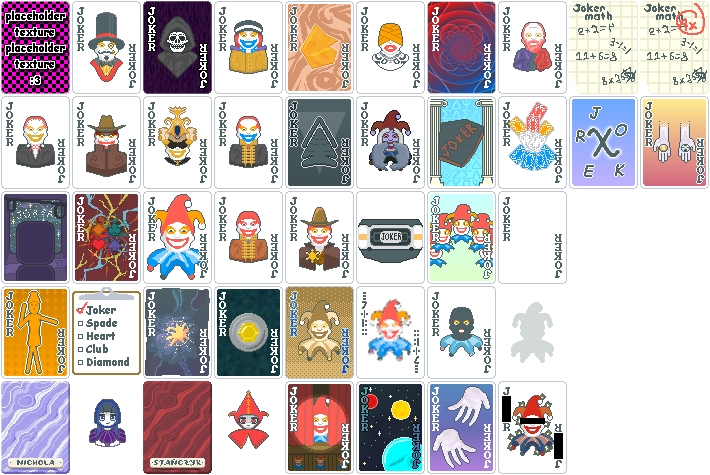
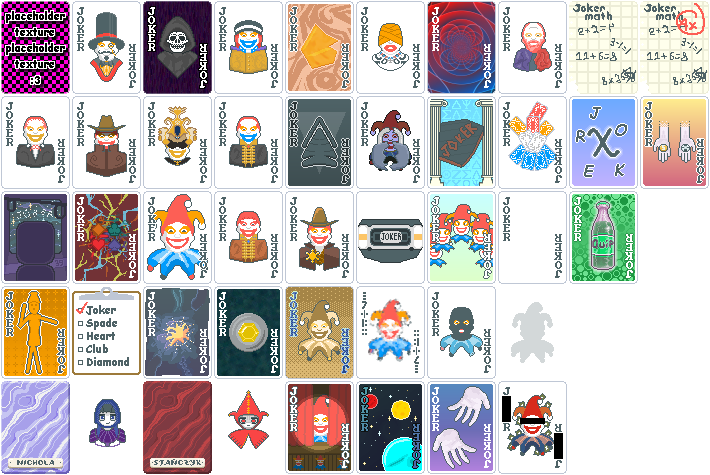
Sprite Added

Changed region(s): [[0.8056, 0.3832, 0.8986, 0.6189]]

diff --git a/README.md b/README.md
@@ -1,2 +1,17 @@
 # Osquo's Extensions
-A fun-focused and (hopefully) balanced extension to the vanilla game
+A fun-focused and (hopefully) balanced extension to the vanilla game, aiming to open up new playstyles!
+
+# Content
+- 42 New Jokers
+- 2 New Spectral Cards
+- 1 New Tarot Card
+- 2 New Enhancements
+- 1 Pair of Vouchers (2 Total)
+
+# Dependencies
+- [Steamodded](https://github.com/Steamopollys/Steamodded) Version 1.0.0 Beta-0314a or later
+- [Lovely](https://github.com/ethangreen-dev/lovely-injector)
+
+# Credits
+- The Balatro Discord Server for their immense help in getting this project off the ground
+- bepisfever for the joker animation framework used in this mod
